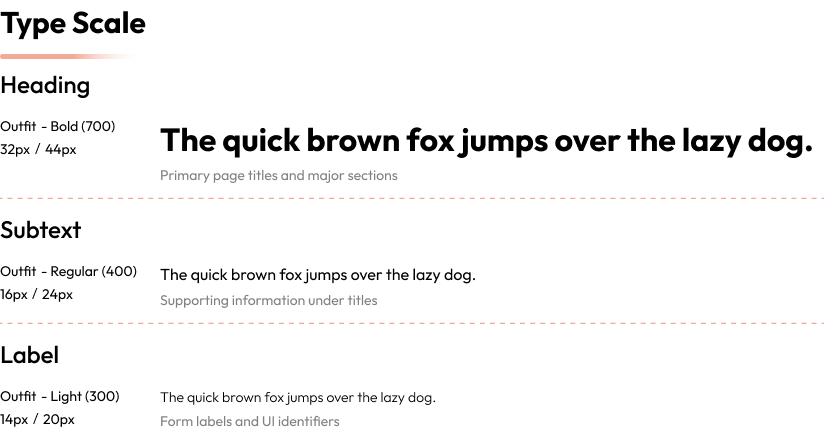
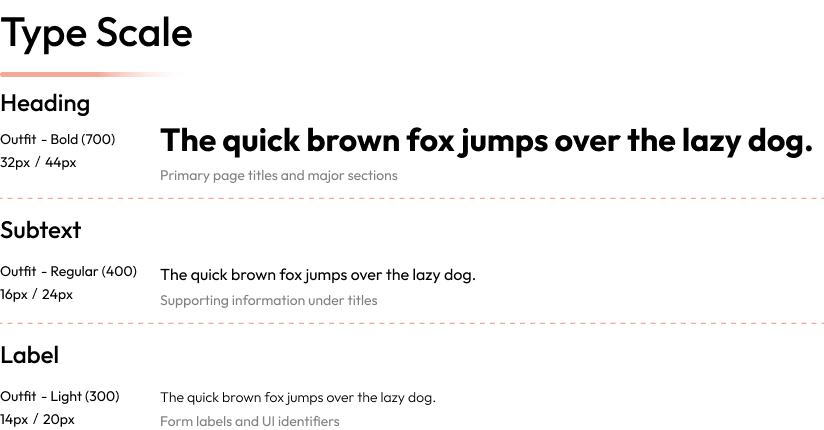
testing changes - dev

Changed region(s): [[0.0, 0.0, 0.2427, 0.393]]

diff --git a/case-study-appgurus.html b/case-study-appgurus.html
@@ -191,7 +191,7 @@
                 <div class="case--study-about-wrap">
                     <div class="container">
                         <div class="case--study-main-inner">
-                            <div class="case--study-inner-pd">
+                            <div class="case--study-inner-pdvv1">
 
                                 <!-- Top label -->
                                 <div class="row mb-lg-3 mb-md-2 mb-sm-1">
@@ -247,7 +247,7 @@
                                     <div class="col-md-4 case--study-about-psi-col">
                                         <div class="case--study-about-psi-item">
                                             <div class="case--study-about-psi-head d-flex align-items-center">
-                                                <div class="case--study-about-psi-num">1</div>
+                                                <div class="case--study-about-psi-num" style="background-color: #F4A896;color: #ffffff;">1</div>
                                                 <div class="case--study-about-psi-title font-we-sb black_text">
                                                     Problem</div>
                                             </div>
@@ -259,7 +259,7 @@
                                     <div class="col-md-4 case--study-about-psi-col">
                                         <div class="case--study-about-psi-item">
                                             <div class="case--study-about-psi-head d-flex align-items-center">
-                                                <div class="case--study-about-psi-num">2</div>
+                                                <div class="case--study-about-psi-num" style="background-color: #F4A896;color: #ffffff;">2</div>
                                                 <div class="case--study-about-psi-title font-we-sb black_text">
                                                     Solution</div>
                                             </div>
@@ -271,7 +271,7 @@
                                     <div class="col-md-4 case--study-about-psi-col">
                                         <div class="case--study-about-psi-item">
                                             <div class="case--study-about-psi-head d-flex align-items-center">
-                                                <div class="case--study-about-psi-num">3</div>
+                                                <div class="case--study-about-psi-num" style="background-color: #F4A896;color: #ffffff;">3</div>
                                                 <div class="case--study-about-psi-title font-we-sb black_text">
                                                     Impact</div>
                                             </div>
@@ -317,7 +317,7 @@
                     <div class="container">
                         <div class="case--study-main-inner ">
 
-                            <div class="case--study-inner-pd">
+                            <div class="case--study-inner-pdvv1vv1">
                                 <!-- Top label + heading + paragraph -->
                                 <div class="case--study-row-txtvv1">
                                     <div class="cs-subhead font-we-sb mb-lg-3 mb-md-2 mb-sm-1 grey1_text">Brand System Overview
@@ -368,7 +368,7 @@
                     <div class="container">
                         <div class="case--study-color-inner ">
 
-                            <div class="case--study-inner-pd">
+                            <div class="case--study-inner-pdvv1">
                                 <!-- Top label + heading + paragraph -->
                                 <div class="case--study-row-txtvv1">
                                     <div class="cs-subhead font-we-sb mb-lg-3 mb-md-2 mb-sm-1 grey1_text">Color & Typography
@@ -388,7 +388,7 @@
                                 </div>
 
                                 <!-- Two split images -->
-                                <div class="row g-4 case--study-webscreen-img-row case--study-webscreen-img-split-row">
+                                <div class="row gx-4 gy-4 gx-lg-5 case--study-webscreen-img-row case--study-webscreen-img-split-row">
                                     <div class="col-md-6">
                                         <div class="case--study-logo-com-main">
                                             <img src="./assets/images/nanylane-case-img/outfit.png" alt="" class="main-img">
@@ -402,47 +402,47 @@
                                 </div>
 
 
-                                <div class="sg-main mt-4 mt-lg-2 mt-md-3 mt-sm-4">
+                                <div class="sg-main mt-4 mt-lg-4 mt-md-3 mt-sm-4">
                                     <!-- PRIMARY COLOR -->
 
                                     <div class="sg-top-wrap">
                                         <div class="sg-wrap">
                                             <div class="sg-section-title">Primary Color
-                                                <div class="case--study-cps-com-aftervv1 case--study-com-hl"></div>
+                                                <div class="case--study-cps-com-aftervv1 case--study-com-hl" style="position: absolute;left: 0px;bottom: 0px;width: 100%;height: 6px;border-radius: 10px;background: linear-gradient(90deg, rgb(244, 168, 150) 0%, rgb(255, 255, 255) 100%);"></div>
                                             </div>
                                             <div class="sg-palette">
                                                 <div class="sg-swatch">
-                                                    <div class="sg-swatch-box" style="background:#F4A896;border:1px solid #E9EBF8;"></div>
+                                                    <div class="sg-swatch-box" style="background:#F4A896;"></div>
                                                     <div class="sg-swatch-name">#F4A896</div>
                                                     <div class="sg-swatch-hex">rgb(232, 131, 109)</div>
                                                 </div>
 
                                                 <div class="sg-swatch">
-                                                    <div class="sg-swatch-box" style="background:#F6B9AB;border:1px solid #E9EBF8;"></div>
+                                                    <div class="sg-swatch-box" style="background:#F6B9AB;"></div>
                                                     <div class="sg-swatch-name">#F6B9AB</div>
                                                     <div class="sg-swatch-hex">rgb(244, 168, 150)</div>
                                                 </div>
 
                                                 <div class="sg-swatch">
-                                                    <div class="sg-swatch-box" style="background:#F8C5B9;border:1px solid #E9EBF8;"></div>
+                                                    <div class="sg-swatch-box" style="background:#F8C5B9;"></div>
                                                     <div class="sg-swatch-name">#F8C5B9</div>
                                                     <div class="sg-swatch-hex">rgb(255, 171, 154)</div>
                                                 </div>
 
                                                 <div class="sg-swatch">
-                                                    <div class="sg-swatch-box" style="background:#FAD7CF;border:1px solid #E9EBF8;"></div>
+                                                    <div class="sg-swatch-box" style="background:#FAD7CF;"></div>
                                                     <div class="sg-swatch-name">#FAD7CF</div>
                                                     <div class="sg-swatch-hex">rgb(255, 208, 198)</div>
                                                 </div>
 
                                                 <div class="sg-swatch">
-                                                    <div class="sg-swatch-box" style="background:#FCE4DE;border:1px solid #E9EBF8;"></div>
+                                                    <div class="sg-swatch-box" style="background:#FCE4DE;"></div>
                                                     <div class="sg-swatch-name">#FCE4DE</div>
                                                     <div class="sg-swatch-hex">rgb(255, 232, 227)</div>
                                                 </div>
 
                                                 <div class="sg-swatch">
-                                                    <div class="sg-swatch-box" style="background:#FFF6F5;border:1px solid #E9EBF8;"></div>
+                                                    <div class="sg-swatch-box" style="background:#FFF6F5;"></div>
                                                     <div class="sg-swatch-name">#FFF6F5</div>
                                                     <div class="sg-swatch-hex">rgb(254, 246, 245)</div>
                                                 </div>
@@ -456,42 +456,42 @@
 
                                     <div class="sg-wrap">
                                         <div class="sg-section-title">Secondary Color
-                                            <div class="case--study-cps-com-aftervv1 case--study-com-hl"></div>
+                                            <div class="case--study-cps-com-aftervv1 case--study-com-hl" style="position: absolute;left: 0px;bottom: 0px;width: 100%;height: 6px;border-radius: 10px;background: linear-gradient(90deg, rgb(244, 168, 150) 0%, rgb(255, 255, 255) 100%);"></div>
                                         </div>
                                         <div class="sg-palette mb-0">
 
                                             <div class="sg-swatch">
-                                                <div class="sg-swatch-box" style="background:#3E3E3E;border:1px solid #E9EBF8;"></div>
+                                                <div class="sg-swatch-box" style="background:#3E3E3E;"></div>
                                                 <div class="sg-swatch-name">#3E3E3E</div>
                                                 <div class="sg-swatch-hex">rgb(115, 115, 115)</div>
                                             </div>
 
                                             <div class="sg-swatch">
-                                                <div class="sg-swatch-box" style="background:#656565;border:1px solid #E9EBF8;"></div>
+                                                <div class="sg-swatch-box" style="background:#656565;"></div>
                                                 <div class="sg-swatch-name">#656565</div>
                                                 <div class="sg-swatch-hex">rgb(163, 163, 163)</div>
                                             </div>
 
                                             <div class="sg-swatch">
-                                                <div class="sg-swatch-box" style="background:#7E7E7E;border:1px solid #E9EBF8;"></div>
+                                                <div class="sg-swatch-box" style="background:#7E7E7E;"></div>
                                                 <div class="sg-swatch-name">#7E7E7E</div>
                                                 <div class="sg-swatch-hex">rgb(196, 196, 196)</div>
                                             </div>
 
                                             <div class="sg-swatch">
-                                                <div class="sg-swatch-box" style="background:#A6A6A6;border:1px solid #E9EBF8;"></div>
+                                                <div class="sg-swatch-box" style="background:#A6A6A6;"></div>
                                                 <div class="sg-swatch-name">#A6A6A6</div>
                                                 <div class="sg-swatch-hex">rgb(224, 224, 224)</div>
                                             </div>
 
                                             <div class="sg-swatch">
-                                                <div class="sg-swatch-box" style="background:#C3C3C3;border:1px solid #E9EBF8;"></div>
+                                                <div class="sg-swatch-box" style="background:#C3C3C3;"></div>
                                                 <div class="sg-swatch-name">#C3C3C3</div>
                                                 <div class="sg-swatch-hex">rgb(240, 240, 240)</div>
                                             </div>
 
                                             <div class="sg-swatch">
-                                                <div class="sg-swatch-box" style="background:#ECECEC;border:1px solid #E9EBF8;"></div>
+                                                <div class="sg-swatch-box" style="background:#ECECEC;"></div>
                                                 <div class="sg-swatch-name">#ECECEC</div>
                                                 <div class="sg-swatch-hex">rgb(249, 249, 249)</div>
                                             </div>
@@ -512,7 +512,7 @@
                     <div class="container">
                         <div class="case--study-scope-inner ">
 
-                            <div class="case--study-inner-pd">
+                            <div class="case--study-inner-pdvv1">
                                 <!-- Top label + heading + paragraph -->
                                 <div class="case--study-row-txtvv1">
                                     <div class="cs-subhead font-we-sb mb-lg-3 mb-md-2 mb-sm-1 grey1_text">Scope of Work
@@ -553,7 +553,7 @@
                 <div class="case--study-sofia-wrap">
                     <div class="container">
                         <div class="case--study-sofia-inner ">
-                            <div class="case--study-inner-pd">
+                            <div class="case--study-inner-pdvv1">
                                 <!-- Quote + testimonial -->
                                 <div class="row case--study-webscreen-quote-row">
                                     <div class="case--study-webscreen-contentvv1">
@@ -600,7 +600,7 @@
                 <div class="case--study-experience-wrap">
                     <div class="container">
                         <div class="case--study-experience-inner ">
-                            <div class="case--study-inner-pd">
+                            <div class="case--study-inner-pdvv1">
 
                                 <!-- Top label + heading + paragraph -->
                                 <div class="case--study-row-txtvv1">
@@ -642,7 +642,7 @@
                     <div class="container">
                         <div class="case--study-social-inner ">
 
-                            <div class="case--study-inner-pd">
+                            <div class="case--study-inner-pdvv1">
                                 <!-- Top label + heading + paragraph -->
                                 <div class="case--study-row-txtvv1">
                                     <div class="cs-subhead font-we-sb mb-lg-3 mb-md-2 mb-sm-1 grey1_text">Social Experience
@@ -695,7 +695,7 @@
                     <div class="container">
                         <div class="case--study-features-inner ">
 
-                            <div class="case--study-inner-pd">
+                            <div class="case--study-inner-pdvv1">
                                 <!-- Top label + heading + paragraph -->
                                 <div class="case--study-row-txtvv1">
                                     <div class="cs-subhead font-we-sb mb-lg-3 mb-md-2 mb-sm-1 grey1_text">Key Features</div>
@@ -718,7 +718,7 @@
                                 <div class="row g-4 case--study-webscreen-img-row">
                                     <div class="col-12 mb-40">
                                         <div class="sg-section-title mb-40">Parent’s Features
-                                            <div class="case--study-cps-com-aftervv1 case--study-com-hl"></div>
+                                            <div class="case--study-cps-com-aftervv1 case--study-com-hl" style="position: absolute;left: 0px;bottom: 0px;width: 100%;height: 6px;border-radius: 10px;background: linear-gradient(90deg, rgb(244, 168, 150) 0%, rgb(255, 255, 255) 100%);"></div>
                                         </div>
                                         <div class="case--study-logo-com-main desktop-img d-none d-md-flex">
                                             <img src="./assets/images/nanylane-case-img/key-par-imgvv1.png" alt="" class="main-img">
@@ -738,7 +738,7 @@
                                     </div>
                                     <div class="col-12 mtb-40">
                                         <div class="sg-section-title mb-40">Nanny’s Features
-                                            <div class="case--study-cps-com-aftervv1 case--study-com-hl"></div>
+                                            <div class="case--study-cps-com-aftervv1 case--study-com-hl" style="position: absolute;left: 0px;bottom: 0px;width: 100%;height: 6px;border-radius: 10px;background: linear-gradient(90deg, rgb(244, 168, 150) 0%, rgb(255, 255, 255) 100%);"></div>
                                         </div>
                                         <div class="case--study-logo-com-main d-none d-md-flex">
                                             <img src="./assets/images/nanylane-case-img/key-na-imgvv1.png" alt="" class="main-img">
@@ -768,7 +768,7 @@
             <!-- =================================== 10 =================================== -->
             <section class="case--study-application-main">
                 <div class="case--study-application-wrap">
-                    <div class="case--study-inner-pd">
+                    <div class="case--study-inner-pdvv1">
                         <div class="container">
                             <div class="case--study-application-inner">
 
@@ -806,7 +806,7 @@
                     <div class="container ">
                         <div class="case--study-interface-inner ">
 
-                            <div class="case--study-inner-pd">
+                            <div class="case--study-inner-pdvv1">
                                 <!-- Top label + heading + paragraph -->
                                 <div class="case--study-row-txtvv1 ">
                                     <div class="cs-subhead font-we-sb mb-lg-3 mb-md-2 mb-sm-1 grey1_text ">User Interface Design

diff --git a/assets/css/case-study.css b/assets/css/case-study.css
@@ -17,6 +17,11 @@
     margin-top: 40px !important;
 }
 
+.case--study-inner-pdvv1 {
+    padding-top: 70px;
+    padding-bottom: 70px;
+}
+
 
 /* ===================================
    1
@@ -59,7 +64,7 @@ ul.case--study-type-innern li .case--study-cat.case-bg-wt {
 .banner-overlay {
     position: absolute;
     inset: 0;
-    background: rgba(0, 0, 0, 0.45);
+    background: rgba(0, 0, 0, 0.6);
 }
 
 
@@ -186,8 +191,6 @@ ul.case--study-type-innern li .case--study-cat.case-bg-wt {
     width: 40px;
     height: 40px;
     border-radius: 50%;
-    background-color: #F4A896;
-    color: #ffffff;
     font-size: 18px;
     font-weight: 700;
     line-height: 1;
@@ -236,8 +239,7 @@ ul.case--study-type-innern li .case--study-cat.case-bg-wt {
 =================================== */
 
 .case--study-brand-heading {
-    font-size: 48px;
-    line-height: 1.35;
+    font-size: clamp(28px, 3.1vw, 48px);
     font-weight: 400;
     color: #808080;
     margin: 0;
@@ -304,7 +306,8 @@ ul.case--study-type-innern li .case--study-cat.case-bg-wt {
     padding-bottom: 12px;
 }
 
-.case--study-cps-com-aftervv1 {
+
+/* .case--study-cps-com-aftervv1 {
     position: absolute;
     left: 0;
     bottom: 0;
@@ -312,7 +315,7 @@ ul.case--study-type-innern li .case--study-cat.case-bg-wt {
     height: 6px;
     border-radius: 10px;
     background: linear-gradient(90deg, #F4A896 0%, #FFFFFF 100%);
-}
+} */
 
 .sg-section-title {
     font-size: clamp(14px, 2.8vw, 32px);
@@ -339,7 +342,7 @@ ul.case--study-type-innern li .case--study-cat.case-bg-wt {
 }
 
 .sg-swatch-name {
-    font-size: 11px;
+    font-size: clamp(12px, 1.0vw, 18px);
     font-weight: 600;
     color: #444;
     margin-bottom: 2px;
@@ -347,7 +350,7 @@ ul.case--study-type-innern li .case--study-cat.case-bg-wt {
 }
 
 .sg-swatch-hex {
-    font-size: 10px;
+    font-size: clamp(11px, 1.0vw, 16px);
     color: #999;
     white-space: nowrap;
 }
@@ -719,6 +722,10 @@ ul.case--study-type-innern li .case--study-cat.case-bg-wt {
 }
 
 @media (max-width: 1599px) {
+    .case--study-inner-pdvv1 {
+        padding-top: 50px;
+        padding-bottom: 50px;
+    }
     .case--study-banner-inner {
         height: 730px;
     }
@@ -778,9 +785,9 @@ ul.case--study-type-innern li .case--study-cat.case-bg-wt {
     .case--study-about-img-split {
         border-radius: 30px;
     }
-    .case--study-brand-heading {
+    /* .case--study-brand-heading {
         font-size: 36px;
-    }
+    } */
     .case--study-brand-desc {
         font-size: 14px;
     }
@@ -897,9 +904,9 @@ ul.case--study-type-innern li .case--study-cat.case-bg-wt {
     .case--study-brand-desc {
         margin-left: 0px;
     }
-    .case--study-brand-heading {
+    /* .case--study-brand-heading {
         font-size: 32px;
-    }
+    } */
     .case--study-row-txtvv1 {
         margin-bottom: 40px;
     }
@@ -935,6 +942,10 @@ ul.case--study-type-innern li .case--study-cat.case-bg-wt {
 }
 
 @media (max-width: 767px) {
+    .case--study-inner-pdvv1 {
+        padding-top: 35px;
+        padding-bottom: 35px;
+    }
     /* Auto scrolling image sec */
     .parent-mobile-frame {
         margin-top: 24px;
@@ -1019,9 +1030,9 @@ ul.case--study-type-innern li .case--study-cat.case-bg-wt {
         height: 540px;
     }
     /* end */
-    .case--study-brand-heading {
+    /* .case--study-brand-heading {
         font-size: 28px;
-    }
+    } */
     .case--study-social-main .case--study-brand-heading br {
         display: none;
     }